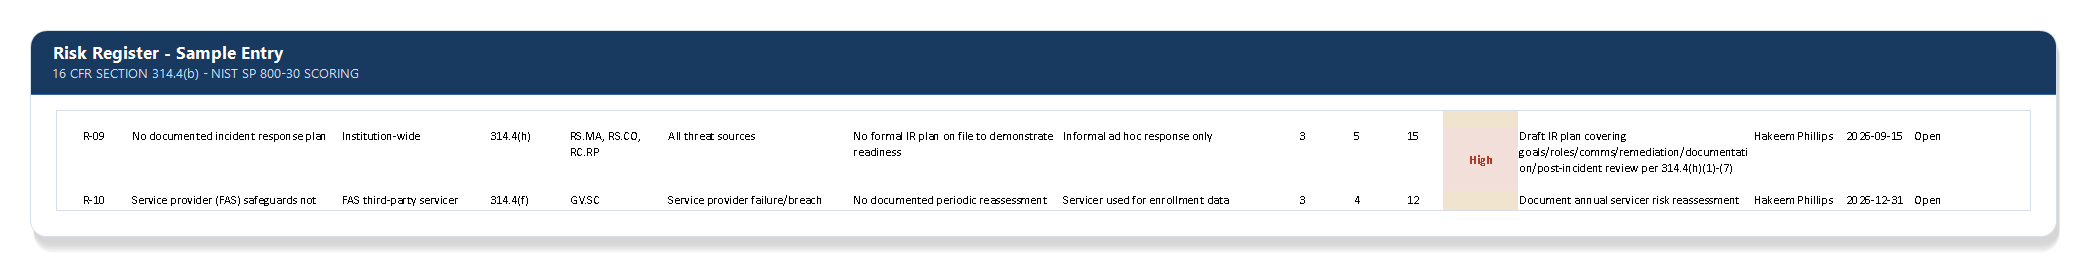
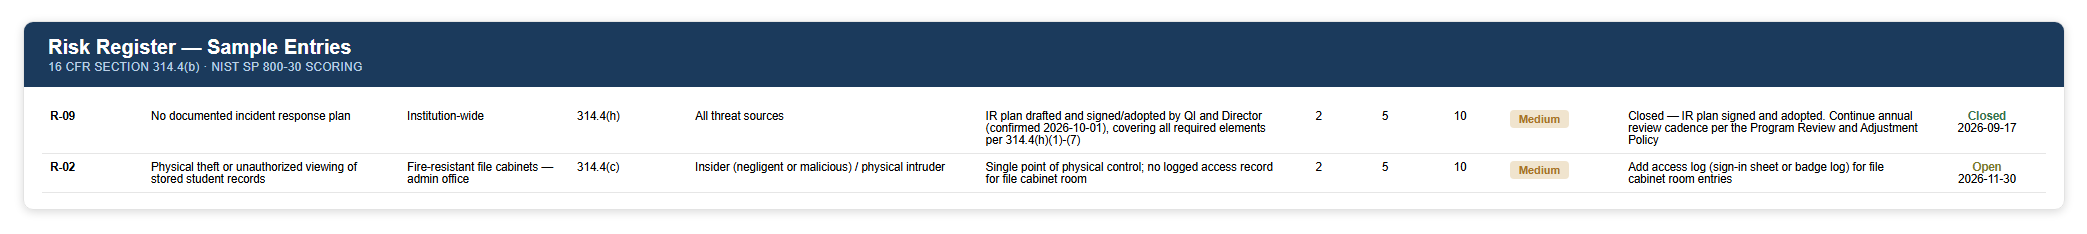
Mark risk assessment complete; refresh stale screenshots with final state
Risk assessment (314.4(b)) is done: register, inventory, crosswalk. Replaces
early-draft screenshots (crosswalk/register showed mostly "Not Started") with
current, accurate status now that signatures are obtained and all three
service provider contracts have been reviewed. Fills the three remaining
screenshot placeholders (completed incident log, program change log, annual
report header) and updates doc text to match.

diff --git a/README.md b/README.md
@@ -3,13 +3,13 @@
 ![Regulation](https://img.shields.io/badge/regulation-16%20CFR%20314-183A61)
 ![Framework](https://img.shields.io/badge/framework-NIST%20CSF%202.0-3765A0)
 ![Sector](https://img.shields.io/badge/sector-Title%20IV%20Higher%20Ed-557C94)
-![Status](https://img.shields.io/badge/status-In%20Progress-yellow)
+![Status](https://img.shields.io/badge/status-Risk%20Assessment%20Complete-2E7D4F)
 
-> **A note on what's real here:** the methodology, framework mapping, document structure, and artifacts in this repo come directly from a GLBA Safeguards Rule risk assessment I'm building for the institution I work for. The *institution's identity* doesn't — no institution name, logo, address, or other identifying detail appears anywhere in this repo, and any document screenshots have identifying details and personal names blurred or masked before they go in. The methodology and the work are real, the "who" is deliberately generic.
+> **A note on what's real here:** the methodology, framework mapping, document structure, and artifacts in this repo come directly from a GLBA Safeguards Rule risk assessment I built for the institution I work for. The *institution's identity* doesn't — no institution name, logo, address, or other identifying detail appears anywhere in this repo, and any document screenshots have identifying details and personal names blurred or masked before they go in. The methodology and the work are real, the "who" is deliberately generic.
 
-I handle regulatory compliance for a Title IV institution, and one of my responsibilities is building out our GLBA Safeguards Rule Information Security Program from the ground up — not auditing an existing one, actually building it: the risk assessment, the safeguards, the testing plan, the incident response plan, all of it. I'm packaging the methodology here as I go, both to have a clean public writeup of how a real 314.4 program comes together end to end, and to pair with my [cybersecurity homelab project](https://github.com/HakeemP210/HakeemP210) as hands-on evidence of the practical side of the same skill set.
+I handle regulatory compliance for a Title IV institution, and one of my responsibilities was building out our GLBA Safeguards Rule Information Security Program from the ground up — not auditing an existing one, actually building it: the risk assessment, the safeguards, the testing plan, the incident response plan, all of it. The written risk assessment required under 314.4(b) — asset inventory, threat/vulnerability analysis, a scored 18-item risk register, and a full compliance crosswalk — is complete. I'm packaging the methodology here both to have a clean public writeup of how a real 314.4 program comes together end to end, and to pair with my [cybersecurity homelab project](https://github.com/HakeemP210/HakeemP210) as hands-on evidence of the practical side of the same skill set.
 
-This is a living project — sections get added and updated as the real assessment progresses.
+This is a living project — the risk assessment itself is done, but safeguards implementation, service provider remediation, and future review cycles will keep this updated going forward.
 
 ## Why GLBA + NIST CSF 2.0
 
@@ -34,11 +34,12 @@ Each 314.4 element gets its own writeup — methodology, how it was approached, 
 
 ## What's Next
 
-- [ ] Finish collecting and reassessing service provider contracts against the safeguards-clause requirement
-- [ ] Close out the safeguards gap-check items currently marked Partial/Missing
+- [x] Finish collecting and reviewing service provider contracts against the safeguards-clause requirement (all three vendors reviewed September&ndash;October 2026)
+- [x] Obtain signatures finalizing every drafted plan (QI designation, testing/monitoring, training, incident response, service provider oversight, program review policy)
 - [x] Add the first round of sanitized document screenshots across all sections
-- [x] Draft the annual QI report to ownership once the assessment cycle closes
-- [ ] Obtain signatures finalizing every drafted plan (QI designation, testing/monitoring, training, incident response, service provider oversight, program review policy)
+- [x] Finalize the annual report to ownership, covering all six required elements of 314.4(i)
+- [ ] Close out the safeguards gap-check items currently marked Partial/Missing — tracked as an ongoing 314.4(c) implementation workstream, separate from the completed risk assessment
+- [ ] Negotiate the two highest-priority service-provider gaps: a safeguards clause with the vendor that currently has none, and a specific breach-notification SLA with the two that only commit to "reasonable" or "without unreasonable" delay
 
 ## Repo Contents
 

diff --git a/docs/06-incident-response-plan.md b/docs/06-incident-response-plan.md
@@ -49,12 +49,11 @@ The plan itself gets reviewed within 15 business days of any incident's resoluti
 
 ### It's been tested once, for real
 
-This isn't hypothetical. A third-party servicer deployed a new report-export feature that, due to a defect on their end, briefly let staff at other institutions download reports containing a small number of our students' financial aid data (name, ID number, SSN, award year, disbursement amount) before the servicer caught and fixed it on their own side. Working through the response surfaced a concrete, specific gap: the servicer took over a week to notify us, well outside what a 24–48 hour contractual notification requirement would have required — that's now a named, prioritized contract negotiation point instead of a hypothetical nice-to-have, and the two related service-provider risk entries were re-scored upward to reflect a confirmed real-world precedent instead of a theoretical one.
+This isn't hypothetical. A third-party servicer deployed a new report-export feature that, due to a defect on their end, briefly let staff at other institutions download reports containing a small number of our students' financial aid data (name, ID number, SSN, award year, disbursement amount) before the servicer caught and fixed it on their own side. Working through the response surfaced a concrete, specific gap: the servicer took over a week to notify us, well outside what a 24–48 hour contractual notification requirement would have required — that's now a named, prioritized contract negotiation point instead of a hypothetical nice-to-have, and the two related service-provider risk entries were re-scored upward to reflect a confirmed real-world precedent instead of a theoretical one. The [follow-up contract review](07-service-provider-oversight.md) later confirmed that servicer's contract already has a general confidentiality clause — the specific gap is the missing notification timeframe, which is why one of the two re-scored risks has since come back down while the other (the notification gap itself) remains open.
 
 The incident was reported to the U.S. Department of Education's Federal Student Aid Cybersecurity Team at `FSASchoolCyberSafety@ed.gov` — the actual designated Title IV incident-reporting channel, now confirmed and kept on file per the note above instead of something to look up mid-incident. It was logged using the same incident log template referenced below, and it's what turned "review the program annually" into an actual triggered review — see [Program Review & Adjustment](09-program-review-adjustment.md).
 
-> 📸 **Screenshot placeholder:** `images/incident-response/completed-incident-log.png`
-> The completed incident log for this event, with student names, SSNs, exact dates, and any other directly identifying fields fully redacted — showing only the field structure and the non-identifying summary fields (method of breach, containment timeline, resolution status).
+![Completed incident log for this event, with identifying fields redacted](../images/incident-response/completed-incident-log.png)
 
 ## Why this matters
 

diff --git a/docs/07-service-provider-oversight.md b/docs/07-service-provider-oversight.md
@@ -20,9 +20,11 @@ Before engaging a new provider, the institution documents a review of available 
 
 ### Requiring safeguards by contract
 
-Each in-scope provider's contract is tracked for whether it contains an adequate safeguards clause, with status logged directly against risk register entries — "not yet confirmed" is a legitimate, honestly-documented status while contracts are being collected and reviewed, same as any other gap in the program.
+Each in-scope provider's contract is tracked for whether it contains an adequate safeguards clause, with status logged directly against risk register entries. "Not yet confirmed" was the honest starting status for all three while contracts were being collected; all three have since been obtained and reviewed, with findings — not assumptions — now driving the register:
 
 ![Contract safeguards-clause status table, with vendor names blurred](../images/service-provider-oversight/contract-status-table.png)
+
+The outcome was uneven, which is the point of actually reading the contracts instead of assuming they're fine: one provider's current terms require "administrative, technical, and physical safeguards" and include an explicit incident-notification commitment — the strongest language of the three. A second has a general confidentiality clause but no specific breach-notification timeframe. A third was confirmed to have no safeguards clause of any kind, and that same review surfaced a data pathway to downstream federal loan-servicing systems that hadn't been documented before. Each finding produced a different outcome in the risk register — one risk downgraded, one raised — rather than a uniform "contracts reviewed, all clear."
 
 ### Periodic reassessment
 
@@ -30,7 +32,7 @@ Every in-scope provider is reassessed **annually on a fixed calendar schedule**,
 
 ## Why this matters
 
-A service provider that handles customer information on the institution's behalf is effectively an extension of the institution's own attack surface — GLBA holds the institution accountable for that provider's safeguards, not just its own. A fixed reassessment schedule and an explicit "not yet confirmed" status (instead of silence) are what keep this from becoming a check-the-box exercise done once at contract signing and never revisited.
+A service provider that handles customer information on the institution's behalf is effectively an extension of the institution's own attack surface — GLBA holds the institution accountable for that provider's safeguards, not just its own. A fixed reassessment schedule and an explicit, honestly-tracked status (instead of silence, and instead of assuming a contract is fine until proven otherwise) are what keep this from becoming a check-the-box exercise done once at contract signing and never revisited.
 
 ## Related
 

diff --git a/docs/09-program-review-adjustment.md b/docs/09-program-review-adjustment.md
@@ -15,12 +15,13 @@ The program gets reviewed on two tracks:
 
 Every review — scheduled or triggered — gets logged in a running **Program Change Log**: date, trigger, what changed, which documents were affected. The point of the log isn't bureaucratic box-checking — it's what lets anyone (an auditor, a reviewer, a future version of me) verify that "the program gets reviewed and adjusted" is an actual practice and not just a sentence in a policy document.
 
-> 📸 **Screenshot placeholder:** `images/program-review/change-log.png`
-> A cropped view of the Program Change Log spreadsheet — the Date, Trigger Category, and Documents Affected columns are safe to show as-is; blur the "What Changed" narrative cells if they reference anything institution-specific beyond what's already described generically in this repo.
+![Program Change Log, sample entries](../images/program-review/change-log.png)
 
 ### This isn't theoretical — see the incident response writeup
 
 The clearest example of a triggered review in this program is documented in detail in [Incident Response Plan](06-incident-response-plan.md#its-been-tested-once-for-real): a real security incident, surfaced partway through a scheduled annual review, resulted in a new risk register entry, two existing risk ratings raised to reflect confirmed real-world precedent, a correction to that year's board report, and a confirmed update to the plan's external reporting contact — all in the same review cycle, all logged.
+
+A second, equally real example: completing the [service provider contract review](07-service-provider-oversight.md) across three separate vendors produced three separate log entries over two weeks, not one — each contract came back with a different finding, and each finding moved the risk register in a different direction (one risk downgraded, one raised). The log entries above show exactly that.
 
 ## Why this matters
 

diff --git a/docs/10-board-reporting.md b/docs/10-board-reporting.md
@@ -10,8 +10,7 @@
 
 Each annual report is checked line-by-item against all six required elements before it goes to ownership — not written freeform and hoped to be complete. Risk findings are stated in the same terms the risk register itself uses (the same risk IDs, the same High/Medium/Low ratings), rather than translated into a softer separate narrative that can drift from what the underlying data actually says.
 
-> 📸 **Screenshot placeholder:** `images/board-reporting/annual-report-header.png`
-> The header block and section headings of the annual report (Program Status / Risk Assessment Results / Safeguard Effectiveness / Service Provider Risk / Incidents Since Last Report / Recommendations) — no need to show body paragraphs, the section structure alone demonstrates the six-element coverage.
+![Annual report header and section structure, with identifying details blurred](../images/board-reporting/annual-report-header.png)
 
 ### An honest finding from reviewing a prior report
 
